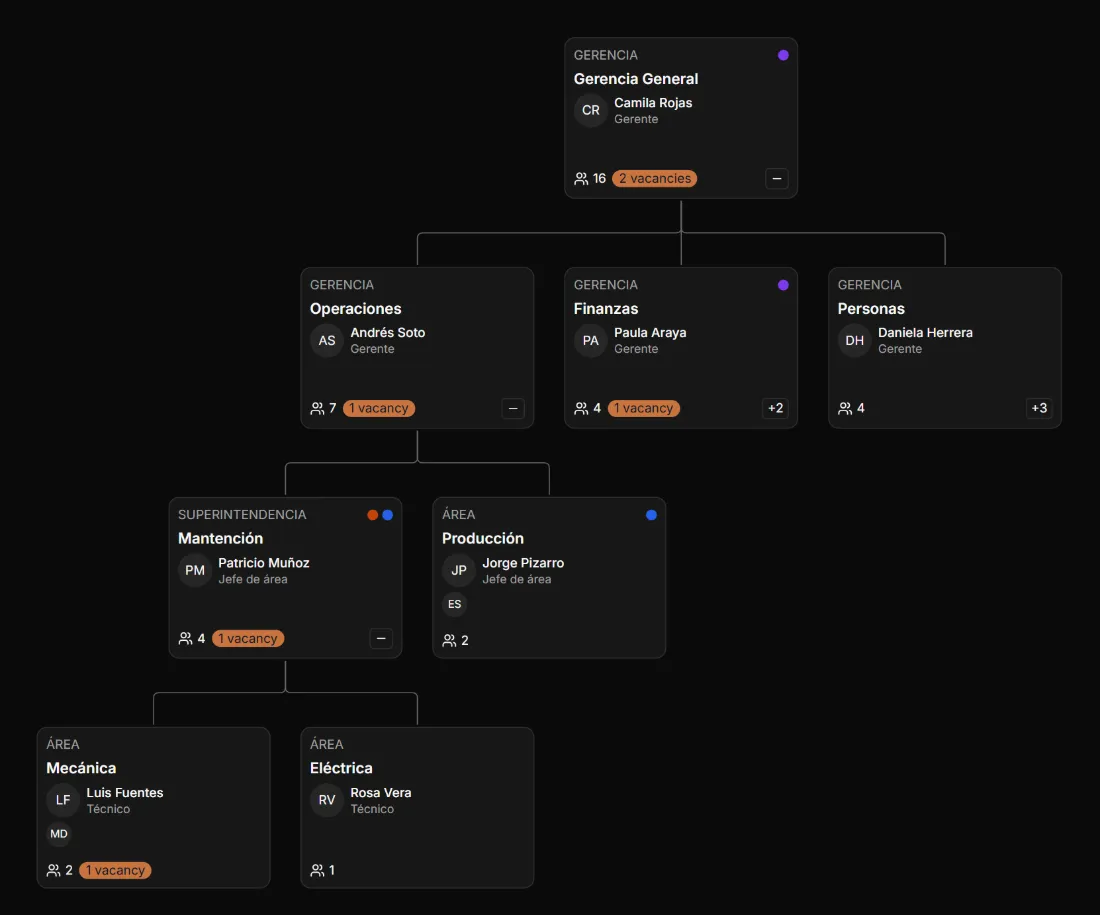
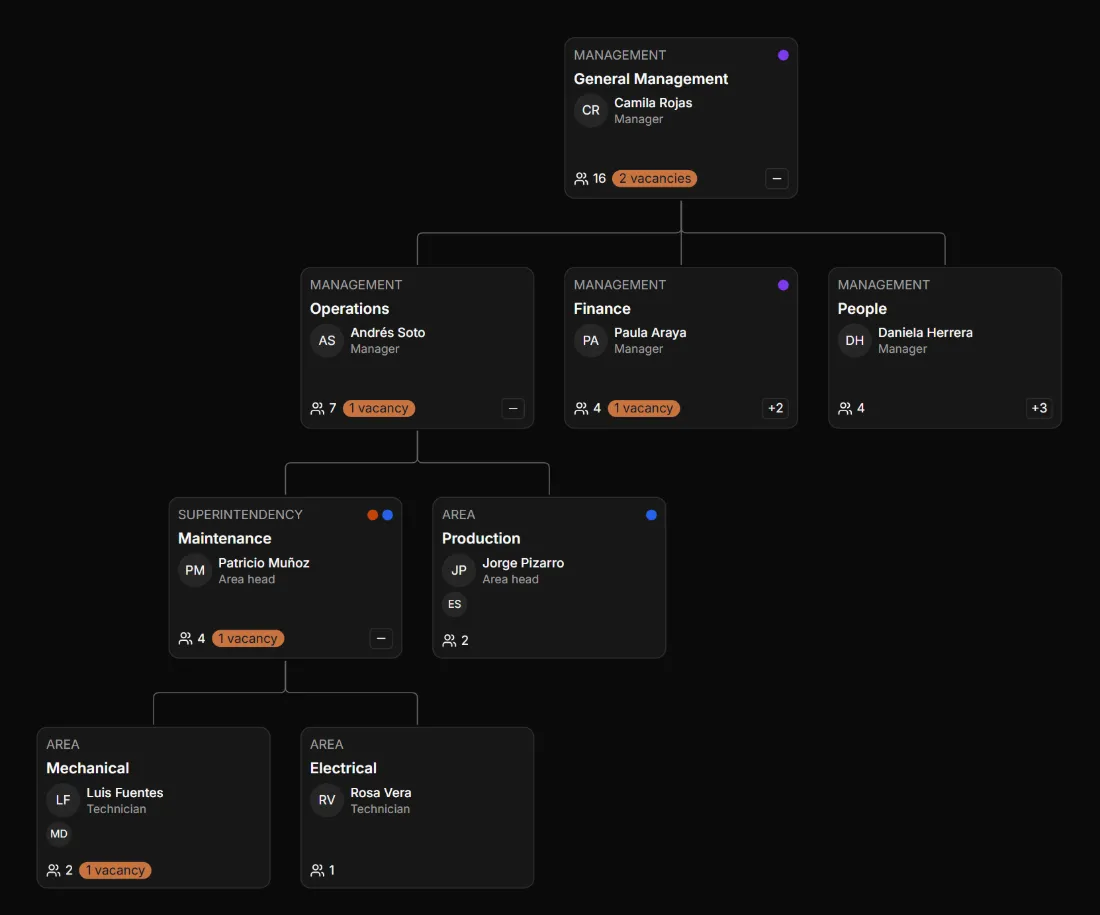
fix(site): textos de privacidad precisos, comparación prudente y capturas en inglés
- Capturas EN rehechas con el ejemplo en inglés (Demo Company) y alt al día.
- «No necesita internet para funcionar» en vez de «sin internet» o «no se
  conecta»; la búsqueda de versiones nuevas se menciona como opcional, que
  solo descarga la lista de versiones y no envía datos.
- SHA256: «la descarga llegó completa e intacta», no «es el original».
- Portable: «tus datos y respaldos» en datos/, con la nota de macOS (~/Library).
- «Sin rastreo en la app»; la comparación usa «Según la herramienta» y «Según
  el producto» donde depende.
- «Recorre organizaciones de miles de personas sin perderte», con la leyenda
  «Organización de ejemplo… (16 personas)» bajo el árbol.
- Los botones por sistema dicen «Windows: ver las descargas».

diff --git a/site/.vitepress/theme/Presentacion.vue b/site/.vitepress/theme/Presentacion.vue
@@ -42,13 +42,13 @@ interface Funcion {
   titulo: string;
   texto: string;
   puntos: string[];
-  imagen: { nombre: string; ancho: number; alto: number; alt: string; temas: boolean };
+  imagen: { nombre: string; ancho: number; alto: number; alt: string; temas: boolean; leyenda?: string };
   enlace?: { texto: string; href: string };
 }
 
 const TEXTOS = {
   es: {
-    chips: ["Gratis y de código abierto", "Sin cuentas", "Funciona sin internet", "Windows · Linux · macOS"],
+    chips: ["Gratis y de código abierto", "Sin cuentas", "No necesita internet", "Windows · Linux · macOS"],
     beneficios: {
       etiqueta: "Para qué sirve",
       titulo: "Todo tu organigrama, claro y bajo control",
@@ -57,9 +57,9 @@ const TEXTOS = {
       items: [
         {
           icono: "arbol",
-          titulo: "Ve toda tu organización de un vistazo, aunque tenga miles de personas",
+          titulo: "Recorre organizaciones de miles de personas sin perderte",
           texto:
-            "Gerencias, áreas y subáreas en un árbol que pliegas y despliegas. Probado con 2.000 unidades y 10.000 personas.",
+            "Gerencias, áreas y subáreas en un árbol que pliegas y despliegas, y una búsqueda que te lleva a cualquiera. Probado con 2.000 unidades y 10.000 personas.",
         },
         {
           icono: "vacante",
@@ -76,7 +76,8 @@ const TEXTOS = {
         {
           icono: "candado",
           titulo: "Tus datos no salen de tu computador",
-          texto: "Sin servidor, sin cuentas y sin internet. Una base local con respaldos automáticos.",
+          texto:
+            "Sin servidor ni cuentas, y no necesita internet para funcionar. Una base local con respaldos automáticos.",
         },
       ],
     },
@@ -101,6 +102,7 @@ const TEXTOS = {
             ancho: 1100,
             alto: 915,
             temas: true,
+            leyenda: "Organización de ejemplo que trae la app (16 personas)",
             alt: "Organigrama de ejemplo: Gerencia General con Operaciones, Finanzas y Personas; Operaciones abierta hasta Mantención, Producción, Mecánica y Eléctrica, con jefaturas, dotación y vacantes.",
           },
         },
@@ -164,9 +166,9 @@ const TEXTOS = {
         {
           id: "portable",
           etiqueta: "100 % local y portable",
-          titulo: "Llévalo en un pendrive, sin perder nada",
+          titulo: "Llévalo en un pendrive, con tus datos y respaldos",
           texto:
-            "La versión portable guarda todo en la carpeta datos/, junto al programa. No instala nada y no necesita internet.",
+            "La versión portable guarda tus datos y respaldos en la carpeta datos/, junto al programa, y no necesita internet para funcionar. En macOS, el sistema guarda además las preferencias de la ventana y sus cachés en ~/Library.",
           puntos: [
             "Respaldo automático al abrir, y a mano cuando quieras.",
             "Se conservan los 10 más recientes y se restauran desde la misma pantalla.",
@@ -211,16 +213,35 @@ const TEXTOS = {
       si: "Sí",
       no: "No",
       filas: [
-        ["El organigrama sale de los datos, sin dibujarlo", ["si", "no", "no", "si"]],
+        [
+          "El organigrama sale de los datos, sin dibujarlo",
+          ["si", ["parcial", "Según la herramienta"], ["parcial", "Según la herramienta"], "si"],
+        ],
         ["Fichas, puestos y vacantes en el mismo lugar", ["si", ["parcial", "A mano"], "no", "si"]],
         ["Ver la organización en una fecha pasada", ["si", "no", "no", ["parcial", "Según el producto"]]],
-        ["Los datos se quedan en tu computador", ["si", "si", ["parcial", "Según la herramienta"], "no"]],
-        ["Funciona sin internet", ["si", "si", ["parcial", "Según la herramienta"], "no"]],
+        [
+          "Los datos se quedan en tu computador",
+          [
+            "si",
+            ["parcial", "Según la herramienta"],
+            ["parcial", "Según la herramienta"],
+            ["parcial", "Según el producto"],
+          ],
+        ],
+        [
+          "Funciona sin internet",
+          [
+            "si",
+            ["parcial", "Según la herramienta"],
+            ["parcial", "Según la herramienta"],
+            ["parcial", "Según el producto"],
+          ],
+        ],
         [
           "Gratis y de código abierto",
           [
             "si",
-            ["parcial", "Según el programa"],
+            ["parcial", "Según la herramienta"],
             ["parcial", "Según la herramienta"],
             ["parcial", "Rara vez"],
           ],
@@ -240,7 +261,8 @@ const TEXTOS = {
         {
           icono: "escudo",
           titulo: "Descargas verificables",
-          texto: "Cada versión publica SHA256SUMS.txt para comprobar que el archivo es el original.",
+          texto:
+            "Cada versión publica SHA256SUMS.txt para comprobar que la descarga llegó completa e intacta.",
           enlace: { texto: "Cómo verificar", href: "/descargas#verificar-la-descarga" },
         },
         {
@@ -250,10 +272,15 @@ const TEXTOS = {
         },
         {
           icono: "sinRastreo",
-          titulo: "Sin rastreo",
-          texto: "La app no tiene servidor ni analítica, y no envía tus datos a ninguna parte.",
+          titulo: "Sin rastreo en la app",
+          texto: "La app no tiene analítica ni telemetría, y no envía tus datos a ninguna parte.",
         },
-        { icono: "sinRed", titulo: "Sin internet", texto: "Funciona completa sin conexión." },
+        {
+          icono: "sinRed",
+          titulo: "No necesita internet",
+          texto:
+            "Funciona completa sin conexión. Cuando busca versiones nuevas (puedes desactivarlo), solo descarga la lista de versiones y no envía datos.",
+        },
       ],
     },
     preguntas: {
@@ -266,7 +293,7 @@ const TEXTOS = {
         },
         {
           p: "¿Dónde quedan mis datos?",
-          r: "En una base SQLite en tu computador: en la carpeta datos/, junto al programa, si usas la portable, o en la carpeta de tu usuario si lo instalas. BoldoAtlas no se conecta a internet.",
+          r: "En una base SQLite en tu computador: en la carpeta datos/, junto al programa, si usas la portable, o en la carpeta de tu usuario si lo instalas. BoldoAtlas no necesita internet para funcionar y no envía tus datos a ninguna parte.",
         },
         {
           p: "¿En qué sistemas funciona?",
@@ -275,7 +302,7 @@ const TEXTOS = {
         },
         {
           p: "¿Cómo se actualiza?",
-          r: "Por ahora, descargando la versión nueva desde este sitio. En la portable reemplazas el programa y la carpeta datos/ se queda donde está. Si la versión nueva cambia la base, antes hace un respaldo. La búsqueda automática de actualizaciones está en camino.",
+          r: "Descargando la versión nueva desde este sitio. En la portable reemplazas el programa y la carpeta datos/ se queda donde está. Si la versión nueva cambia la base, antes hace un respaldo. Cuando BoldoAtlas busca versiones nuevas (puedes desactivarlo), solo descarga la lista de versiones y no envía datos.",
           enlace: { texto: "Cómo actualizar", href: "/descargas#como-actualizar" },
         },
         {
@@ -291,17 +318,17 @@ const TEXTOS = {
     final: {
       titulo: "Arma tu organigrama hoy",
       texto:
-        "Descárgalo gratis, ábrelo y recorre la organización de ejemplo en un par de minutos. La versión portable no instala nada.",
+        "Descárgalo gratis, ábrelo y recorre la organización de ejemplo en un par de minutos. La versión portable guarda tus datos y respaldos junto al programa.",
       descargar: "Descargar portable",
       recomendada: "recomendada",
       manual: "Ver el manual",
-      para: "Descargar para",
+      para: "ver las descargas",
       nota: "Gratis · AGPL-3.0 · Sin cuentas",
     },
     rutas: { descargas: "/descargas", manual: "/manual/inicio", prefijo: "" },
   },
   en: {
-    chips: ["Free and open source", "No accounts", "Works offline", "Windows · Linux · macOS"],
+    chips: ["Free and open source", "No accounts", "No internet needed", "Windows · Linux · macOS"],
     beneficios: {
       etiqueta: "What it's for",
       titulo: "Your whole org chart, clear and under control",
@@ -310,9 +337,9 @@ const TEXTOS = {
       items: [
         {
           icono: "arbol",
-          titulo: "See your whole organization at a glance, even with thousands of people",
+          titulo: "Find your way around organizations of thousands of people",
           texto:
-            "Divisions, areas and sub-areas in a tree you fold and unfold. Tested with 2,000 units and 10,000 people.",
+            "Divisions, areas and sub-areas in a tree you fold and unfold, and a search that takes you to anyone. Tested with 2,000 units and 10,000 people.",
         },
         {
           icono: "vacante",
@@ -328,7 +355,8 @@ const TEXTOS = {
         {
           icono: "candado",
           titulo: "Your data never leaves your computer",
-          texto: "No server, no accounts and no internet. A local database with automatic backups.",
+          texto:
+            "No server and no accounts, and it doesn't need the internet to work. A local database with automatic backups.",
         },
       ],
     },
@@ -352,7 +380,8 @@ const TEXTOS = {
             ancho: 1100,
             alto: 915,
             temas: true,
-            alt: "Sample org chart: Gerencia General with Operaciones, Finanzas and Personas; Operaciones open down to Mantención, Producción, Mecánica and Eléctrica, with heads, headcount and vacancies.",
+            leyenda: "The sample organization that comes with the app (16 people)",
+            alt: "Sample org chart: General Management with Operations, Finance and People; Operations open down to Maintenance, Production, Mechanical and Electrical, with heads, headcount and vacancies.",
           },
         },
         {
@@ -371,7 +400,7 @@ const TEXTOS = {
             ancho: 1100,
             alto: 813,
             temas: true,
-            alt: "Person record for Andrés Soto: name, email, the unit he heads, his Gerente position with its history, contract type, site and shift.",
+            alt: "Person record for Andrés Soto: name, email, the unit he heads, his Manager position with its history, contract type, site and shift.",
           },
         },
         {
@@ -407,15 +436,15 @@ const TEXTOS = {
             ancho: 1100,
             alto: 533,
             temas: true,
-            alt: "Directory with 18 rows: person, job title, division, area and email, with search, a unit filter and a column picker.",
+            alt: "Directory with 18 rows: person, job title, management, area and email, with search, a unit filter and a column picker.",
           },
         },
         {
           id: "portable",
           etiqueta: "100% local and portable",
-          titulo: "Carry it on a USB drive, lose nothing",
+          titulo: "Carry it on a USB drive, with your data and backups",
           texto:
-            "The portable version keeps everything in the datos/ folder, next to the program. It installs nothing and needs no internet.",
+            "The portable version keeps your data and backups in the datos/ folder, next to the program, and doesn't need the internet to work. On macOS, the system also keeps the window preferences and caches in ~/Library.",
           puntos: [
             "Automatic backup when it opens, and manual backups whenever you like.",
             "The 10 most recent are kept, and you restore them from the same screen.",
@@ -460,16 +489,35 @@ const TEXTOS = {
       si: "Yes",
       no: "No",
       filas: [
-        ["The org chart comes from the data, no drawing", ["si", "no", "no", "si"]],
+        [
+          "The org chart comes from the data, no drawing",
+          ["si", ["parcial", "Depends on the tool"], ["parcial", "Depends on the tool"], "si"],
+        ],
         ["Records, positions and vacancies in one place", ["si", ["parcial", "By hand"], "no", "si"]],
         ["See the organization on a past date", ["si", "no", "no", ["parcial", "Depends on the product"]]],
-        ["Your data stays on your computer", ["si", "si", ["parcial", "Depends on the tool"], "no"]],
-        ["Works offline", ["si", "si", ["parcial", "Depends on the tool"], "no"]],
+        [
+          "Your data stays on your computer",
+          [
+            "si",
+            ["parcial", "Depends on the tool"],
+            ["parcial", "Depends on the tool"],
+            ["parcial", "Depends on the product"],
+          ],
+        ],
+        [
+          "Works offline",
+          [
+            "si",
+            ["parcial", "Depends on the tool"],
+            ["parcial", "Depends on the tool"],
+            ["parcial", "Depends on the product"],
+          ],
+        ],
         [
           "Free and open source",
           [
             "si",
-            ["parcial", "Depends on the program"],
+            ["parcial", "Depends on the tool"],
             ["parcial", "Depends on the tool"],
             ["parcial", "Rarely"],
           ],
@@ -489,7 +537,8 @@ const TEXTOS = {
         {
           icono: "escudo",
           titulo: "Verifiable downloads",
-          texto: "Every release publishes SHA256SUMS.txt so you can check the file is the original.",
+          texto:
+            "Every release publishes SHA256SUMS.txt so you can check the download arrived complete and intact.",
           enlace: { texto: "How to verify", href: "/en/descargas#verify-the-download" },
         },
         {
@@ -499,10 +548,15 @@ const TEXTOS = {
         },
         {
           icono: "sinRastreo",
-          titulo: "No tracking",
-          texto: "The app has no server and no analytics, and it sends your data nowhere.",
+          titulo: "No tracking in the app",
+          texto: "The app has no analytics and no telemetry, and it sends your data nowhere.",
         },
-        { icono: "sinRed", titulo: "No internet needed", texto: "It works fully offline." },
+        {
+          icono: "sinRed",
+          titulo: "No internet needed",
+          texto:
+            "It works fully offline. When it checks for new versions (you can turn this off), it only downloads the list of versions and sends no data.",
+        },
       ],
     },
     preguntas: {
@@ -515,7 +569,7 @@ const TEXTOS = {
         },
         {
           p: "Where does my data live?",
-          r: "In a SQLite database on your computer: in the datos/ folder next to the program if you use the portable version, or in your user folder if you install it. BoldoAtlas does not connect to the internet.",
+          r: "In a SQLite database on your computer: in the datos/ folder next to the program if you use the portable version, or in your user folder if you install it. BoldoAtlas doesn't need the internet to work and sends your data nowhere.",
         },
         {
           p: "Which systems does it run on?",
@@ -524,7 +578,7 @@ const TEXTOS = {
         },
         {
           p: "How do I update it?",
-          r: "For now, by downloading the new version from this site. With the portable version you replace the program and the datos/ folder stays where it is. If the new version changes the database, it makes a backup first. Automatic update checks are on the way.",
+          r: "By downloading the new version from this site. With the portable version you replace the program and the datos/ folder stays where it is. If the new version changes the database, it makes a backup first. When BoldoAtlas checks for new versions (you can turn this off), it only downloads the list of versions and sends no data.",
           enlace: { texto: "How to update", href: "/en/descargas#how-to-update" },
         },
         {
@@ -540,11 +594,11 @@ const TEXTOS = {
     final: {
       titulo: "Build your org chart today",
       texto:
-        "Download it for free, open it and explore the sample organization in a couple of minutes. The portable version installs nothing.",
+        "Download it for free, open it and explore the sample organization in a couple of minutes. The portable version keeps your data and backups next to the program.",
       descargar: "Download portable",
       recomendada: "recommended",
       manual: "Read the manual",
-      para: "Download for",
+      para: "see the downloads",
       nota: "Free · AGPL-3.0 · No accounts",
     },
     rutas: { descargas: "/en/descargas", manual: "/en/manual/inicio", prefijo: "/en" },
@@ -635,6 +689,7 @@ const SISTEMAS = ["Windows", "Linux", "macOS"];
               loading="lazy"
               decoding="async"
             />
+            <figcaption v-if="f.imagen.leyenda">{{ f.imagen.leyenda }}</figcaption>
           </figure>
         </article>
       </div>
@@ -723,7 +778,7 @@ const SISTEMAS = ["Windows", "Linux", "macOS"];
         </div>
         <ul class="sistemas" role="list">
           <li v-for="s in SISTEMAS" :key="s">
-            <a :href="enlace(`${t.rutas.descargas}#portable`)" :aria-label="`${t.final.para} ${s}`">{{
+            <a :href="enlace(`${t.rutas.descargas}#portable`)" :aria-label="`${s}: ${t.final.para}`">{{
               s
             }}</a>
           </li>
@@ -981,6 +1036,13 @@ ul[role="list"] {
   overflow: hidden;
   background: var(--vp-c-bg);
   box-shadow: var(--pr-sombra);
+}
+.pantalla figcaption {
+  padding: 8px 16px;
+  border-top: 1px solid var(--vp-c-divider);
+  background: var(--vp-c-bg-soft);
+  color: var(--vp-c-text-2);
+  font-size: 0.8125rem;
 }
 .pantalla img {
   display: block;
